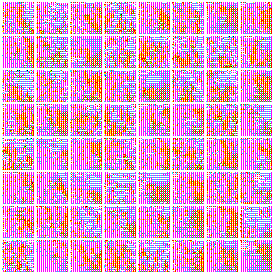
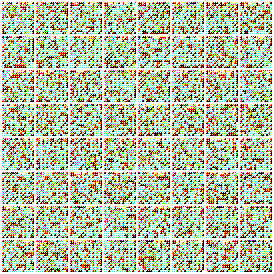
new samples and args
new samples and args

diff --git a/arg.py b/arg.py
@@ -1,0 +1,15 @@
+batch_size=200
+benchmark=True
+gpu_ids=[0]
+lr=1e-3
+max_grad_norm=-1.
+num_channels=512
+num_levels=3
+num_steps=32
+num_epochs=100
+num_samples=64
+num_workers=8
+resume=False
+seed=42
+warm_up=500000
+
